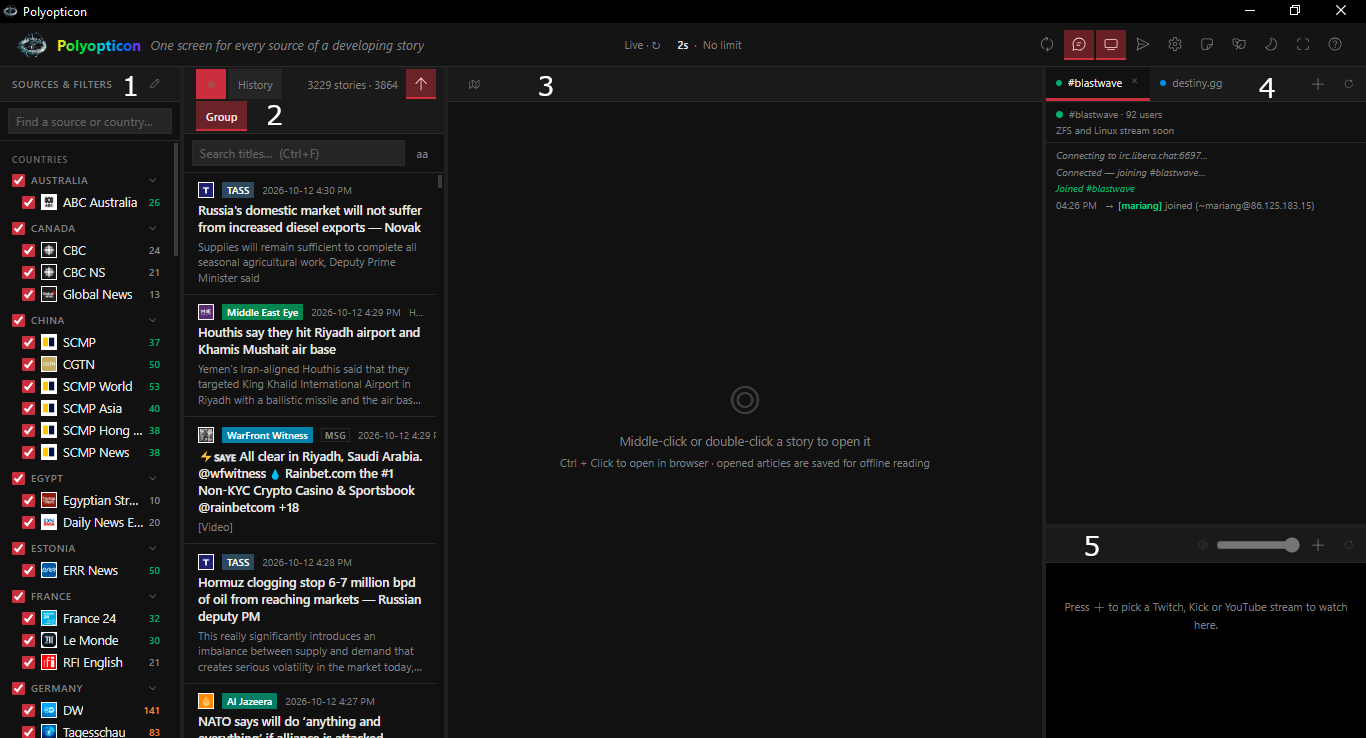
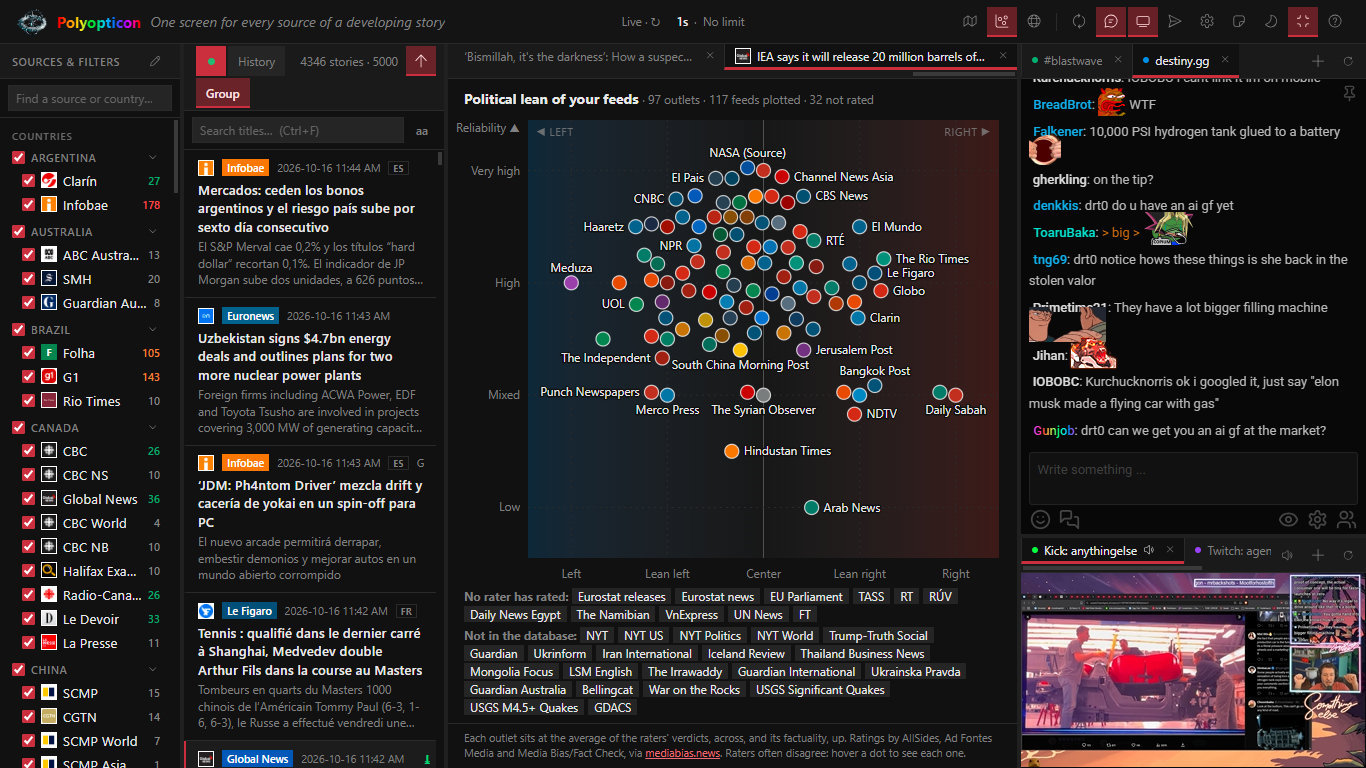
docs: update view descriptions in README and replace views screenshot

diff --git a/README.md b/README.md
@@ -106,11 +106,11 @@ npm run dist       # build a portable Windows .exe into dist/
 
 Polyopticon has five main areas, known as views, with the [toolbar](#toolbar) across the top:
 
-- **[Sources & Filters View](#sources--filters-view)** (fig. 1): The sidebar on the left. It picks which outlets and wires (grouped by country) populate the **Article List View** feed, and holds the include / exclude keywords (bottom of the list).
-- **[Article List View](#article-list-view)** (fig. 2): The article list to the right of the **Sources & Filters View**. It displays incoming articles by newest first (Live), or the articles you opened previously (History).
-- **[Article View](#article-view)** (fig. 3): The centre area, where articles and sites open as separate tabs. An article opens by default as a live page, and supports a saved copy or a clean reader view. The map, Scratchpad, 4chan, Telegram pages and the shortcut list also open within this view as separate tabs. The [bias chart](#bias-chart), [Global Markets](#global-markets) and the map are not tabs: each replaces the article area while open.
-- **[Live Chat View](#live-chat-view)** (fig. 4): Twitch, Kick, destiny.gg and IRC chats, in a column on the right (Ctrl+J).
-- **[Video Player View](#video-player-view)** (fig. 5): Twitch, Kick, YouTube or direct-link streams below the chat, several at once, each with its own volume and mute (Ctrl+V).
+- **[Sources & Filters View](#sources--filters-view)**: The sidebar on the left. It picks which outlets and wires (grouped by country) populate the **Article List View** feed, and holds the include / exclude keywords (bottom of the list).
+- **[Article List View](#article-list-view)**: The article list to the right of the **Sources & Filters View**. It displays incoming articles by newest first (Live), or the articles you opened previously (History).
+- **[Article View](#article-view)**: The centre area, where articles and sites open as separate tabs. An article opens by default as a live page, and supports a saved copy or a clean reader view. The map, Scratchpad, 4chan, Telegram pages and the shortcut list also open within this view as separate tabs. The [bias chart](#bias-chart), [Global Markets](#global-markets) and the map are not tabs: each replaces the article area while open.
+- **[Live Chat View](#live-chat-view)**: Twitch, Kick, destiny.gg and IRC chats, in a column on the right (Ctrl+J).
+- **[Video Player View](#video-player-view)**: Twitch, Kick, YouTube or direct-link streams below the chat, several at once, each with its own volume and mute (Ctrl+V).
 
 Drag the bars between the views to resize them. Width and height per view are recorded and remembered.
 
